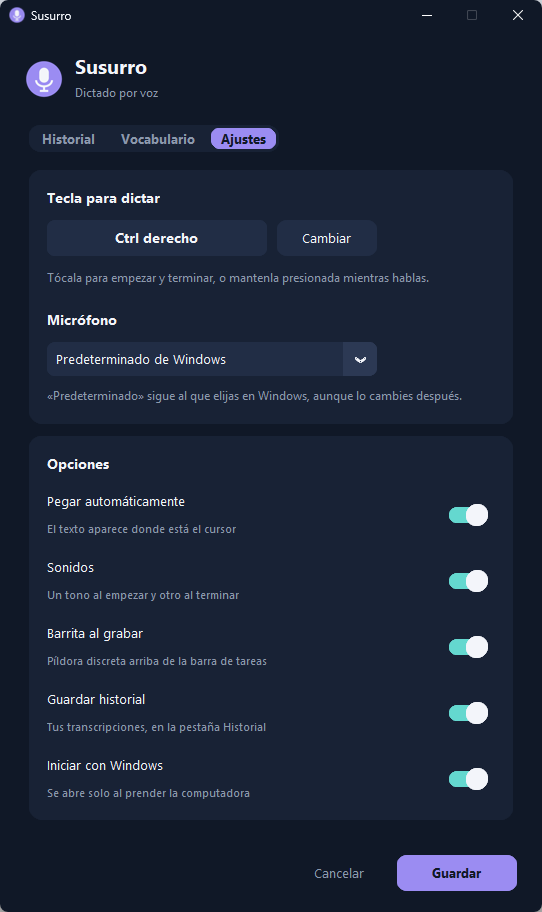
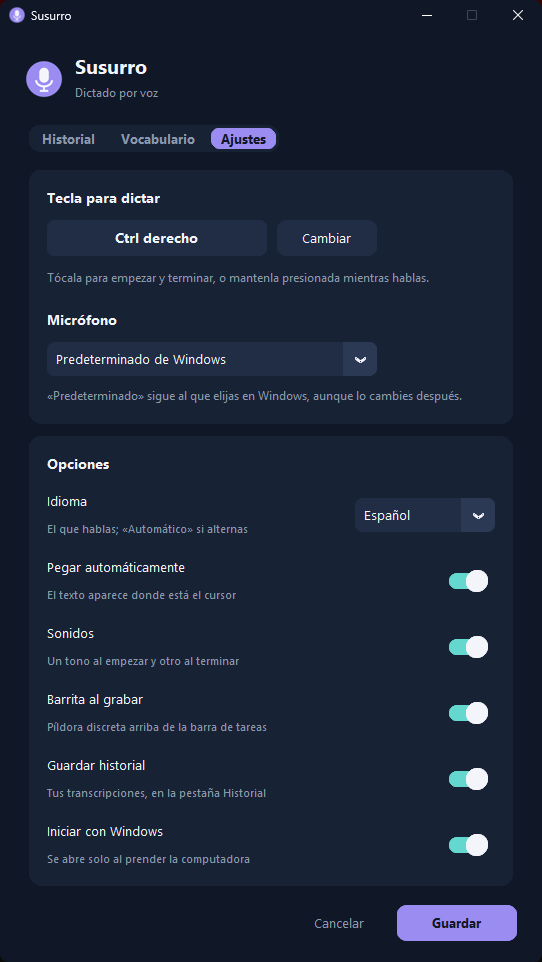
Selector de idioma en Ajustes y filtro de frases fantasma en ingles y portugues

diff --git a/susurro.py b/susurro.py
@@ -34,7 +34,16 @@ MODELS = {
     "large-v3-turbo": "Rápido (large-v3-turbo)",
     "large-v3": "Máxima precisión (large-v3)",
 }
-LANGUAGE = "es"                # None = detectar idioma automáticamente
+# Idiomas del dictado (código de Whisper -> nombre en Ajustes); "auto" = detectar
+LANGUAGES = {
+    "es": "Español",
+    "en": "Inglés",
+    "pt": "Portugués",
+    "fr": "Francés",
+    "it": "Italiano",
+    "de": "Alemán",
+    "auto": "Automático",
+}
 HOLD_SECONDS = 0.35            # cuánto sostener la tecla para que cuente como "mantener"
 SAMPLE_RATE = 16000
 MIN_SECONDS = 0.4              # grabaciones más cortas se ignoran
@@ -46,6 +55,7 @@ DEFAULTS = {
     "save_history": True,
     "mic": "",                 # "" = el micrófono predeterminado de Windows
     "model": "large-v3-turbo",
+    "language": "es",
     # Palabras que Whisper debe reconocer (nombres, marcas, términos técnicos)
     # (ejemplos de uso común; cada quien agrega los suyos en la pestaña Vocabulario)
     "vocab": ["WhatsApp", "Gmail", "YouTube", "ChatGPT", "IA", "Excel", "PowerPoint", "PDF"],
@@ -156,7 +166,9 @@ HALLUCINATION_STRICT = re.compile(
 # quitan cuando Whisper mismo indica que probablemente no había voz.
 HALLUCINATION_SOFT = re.compile(
     r"gracias\s+por\s+(?:ver|mirar)|suscr[ií]bete|no\s+olvides\s+suscribirte|"
-    r"dale\s+(?:a\s+)?like|^\W*(?:m[uú]sica|aplausos|risas)\W*$|♪", re.IGNORECASE)
+    r"dale\s+(?:a\s+)?like|^\W*(?:m[uú]sica|aplausos|risas)\W*$|♪|"
+    r"thanks?\s+(?:you\s+)?for\s+watching|(?:please\s+|like\s+and\s+)subscribe|"
+    r"obrigad[oa]\s+por\s+assistir|inscreva-se|^\W*(?:music|applause)\W*$", re.IGNORECASE)
 
 
 def clean_segment(text, no_speech_prob, avg_logprob):
@@ -381,6 +393,15 @@ def entry(master, **kw):
     return ctk.CTkEntry(master, fg_color=SURFACE_2, border_color=BORDER, border_width=1,
                         text_color=SMOKE, placeholder_text_color=GRAY, corner_radius=8,
                         height=34, font=font(13), **kw)
+
+
+def option_menu(master, variable, values, width=330):
+    return ctk.CTkOptionMenu(master, variable=variable, values=values,
+                             width=width, height=34, corner_radius=8, fg_color=SURFACE_2,
+                             button_color=BORDER, button_hover_color=GRAY, text_color=SMOKE,
+                             font=font(13), dropdown_font=font(13), dropdown_fg_color=SURFACE_2,
+                             dropdown_hover_color=BORDER, dropdown_text_color=SMOKE,
+                             dynamic_resizing=False)
 
 
 def card(master):
@@ -648,7 +669,7 @@ class MainWindow:
     def __init__(self, app, tab="Historial"):
         self.app = app
         self.hotkey = app.cfg["hotkey"]
-        w = self.win = new_window(app, "Susurro", 540, 880)
+        w = self.win = new_window(app, "Susurro", 540, 930)
         w.protocol("WM_DELETE_WINDOW", self.close)
 
         header(w, "Susurro", "Dictado por voz").pack(fill="x", padx=24, pady=(20, 8))
@@ -719,18 +740,16 @@ class MainWindow:
         if current and current not in mics:
             mics.append(current)         # el elegido, aunque ahora esté desconectado
         self.mic_var = tk.StringVar(value=current or DEFAULT_MIC_LABEL)
-        ctk.CTkOptionMenu(key_card, variable=self.mic_var, values=[DEFAULT_MIC_LABEL] + mics,
-                          width=330, height=34, corner_radius=8, fg_color=SURFACE_2,
-                          button_color=BORDER, button_hover_color=GRAY, text_color=SMOKE,
-                          font=font(13), dropdown_font=font(13), dropdown_fg_color=SURFACE_2,
-                          dropdown_hover_color=BORDER, dropdown_text_color=SMOKE,
-                          dynamic_resizing=False).pack(anchor="w", padx=18)
+        option_menu(key_card, self.mic_var, [DEFAULT_MIC_LABEL] + mics).pack(anchor="w", padx=18)
         label(key_card, "«Predeterminado» sigue al que elijas en Windows, aunque lo cambies después.",
               12, MUTED, wraplength=420).pack(anchor="w", padx=18, pady=(6, 14))
 
         opts = card(tab)
         opts.pack(fill="x")
         label(opts, "Opciones", 14, weight="bold").pack(anchor="w", padx=18, pady=(14, 4))
+        self.lang_var = tk.StringVar(value=LANGUAGES[self.app.cfg["language"]])
+        row = self.option_row(opts, "Idioma", "El que hablas; «Automático» si alternas")
+        option_menu(row, self.lang_var, list(LANGUAGES.values()), width=140).pack(side="right")
         self.vars = {}
         rows = [(k, t, d, self.app.cfg[k]) for k, t, d in self.OPTIONS]
         rows.append(("startup", "Iniciar con Windows", "Se abre solo al prender la computadora",
@@ -739,14 +758,19 @@ class MainWindow:
             self.vars[key] = self.switch_row(opts, title, desc, value)
         ctk.CTkFrame(opts, fg_color="transparent", height=8).pack()
 
-    def switch_row(self, master, title, desc, value):
-        var = tk.BooleanVar(value=value)
+    def option_row(self, master, title, desc):
+        """Fila con título y descripción a la izquierda; el control va a la derecha."""
         row = ctk.CTkFrame(master, fg_color="transparent")
         row.pack(fill="x", padx=18, pady=5)
         text = ctk.CTkFrame(row, fg_color="transparent")
         text.pack(side="left", fill="x", expand=True)
         label(text, title, 13).pack(anchor="w")
         label(text, desc, 11, MUTED).pack(anchor="w")
+        return row
+
+    def switch_row(self, master, title, desc, value):
+        var = tk.BooleanVar(value=value)
+        row = self.option_row(master, title, desc)
         ctk.CTkSwitch(row, text="", variable=var, width=46, switch_width=42, switch_height=22,
                       progress_color=TURQUOISE, fg_color=BORDER, button_color=SMOKE,
                       button_hover_color=SMOKE).pack(side="right")
@@ -869,6 +893,8 @@ class MainWindow:
         cfg = dict(self.app.cfg, hotkey=self.hotkey, **values)
         mic = self.mic_var.get()
         cfg["mic"] = "" if mic == DEFAULT_MIC_LABEL else mic
+        cfg["language"] = next(code for code, name in LANGUAGES.items()
+                               if name == self.lang_var.get())
         cfg["vocab"] = clean_words(self.words.get("1.0", "end").splitlines())
         cfg["replacements"] = [[str(v) for v in self.reps.item(i, "values")]
                                for i in self.reps.get_children()]
@@ -1036,6 +1062,8 @@ class Susurro:
         self.loading_model = None
         if self.cfg["model"] not in MODELS:
             self.cfg["model"] = DEFAULTS["model"]
+        if self.cfg["language"] not in LANGUAGES:
+            self.cfg["language"] = DEFAULTS["language"]
         self.state = "idle"        # idle | pending | hold | toggle
         self.frames = []
         self.stream = None
@@ -1088,6 +1116,11 @@ class Susurro:
             self.tray.notify(snippet(text, 120), "Copiado al portapapeles")
         except Exception:
             pass
+
+    def whisper_language(self):
+        """Código para Whisper; None le pide que detecte el idioma."""
+        lang = self.cfg["language"]
+        return None if lang == "auto" else lang
 
     @property
     def key_name(self):
@@ -1162,7 +1195,8 @@ class Susurro:
                 log(f"No se pudo usar la GPU ({e}); usando CPU")
                 model = WhisperModel(name, device="cpu", compute_type="int8")
             # Calentamiento para que la primera transcripción sea rápida
-            list(model.transcribe(np.zeros(SAMPLE_RATE, dtype=np.float32), language=LANGUAGE)[0])
+            list(model.transcribe(np.zeros(SAMPLE_RATE, dtype=np.float32),
+                                  language=self.whisper_language())[0])
         except Exception as e:
             log(f"No se pudo cargar {name}: {e}")
             if switching:
@@ -1305,7 +1339,7 @@ class Susurro:
             start = time.time()
             vocab = self.cfg["vocab"]
             segments, _ = self.model.transcribe(
-                audio, language=LANGUAGE, beam_size=5, vad_filter=True,
+                audio, language=self.whisper_language(), beam_size=5, vad_filter=True,
                 condition_on_previous_text=False,
                 # Pistas de vocabulario; se aplican a cada tramo de 30 s del audio
                 hotwords=", ".join(vocab) if vocab else None,

diff --git a/README.md b/README.md
@@ -49,7 +49,7 @@ Susurro usa **un solo modelo**, y el instalador lo descarga solo. **No necesitas
 | **Descarga** | Automática desde Hugging Face ([`mobiuslabsgmbh/faster-whisper-large-v3-turbo`](https://huggingface.co/mobiuslabsgmbh/faster-whisper-large-v3-turbo)), **~1.6 GB**, una sola vez |
 | **Dónde queda** | `%USERPROFILE%\.cache\huggingface\hub\` |
 | **Memoria de video** | ~2 GB en GPU |
-| **Idioma** | Español (configurable en `susurro.py` → `LANGUAGE`) |
+| **Idioma** | Español por defecto; inglés, portugués, francés, italiano, alemán o detección automática en **Ajustes** |
 
 **¿Por qué este modelo?** Se comparó contra `large-v3` (el "grande") dictando en español: turbo transcribió 38 s de audio en **3.2 s** contra **12.8 s** del grande, con la misma precisión. Los modelos chicos (`small`, `medium`) escriben notablemente peor y casi no son más rápidos en CPU.
 
@@ -141,7 +141,7 @@ Ninguno se sube a Git (están en `.gitignore`). **Para respaldar o pasar Susurro
 | Escribe mal un nombre | Agrégalo en **Vocabulario**, o usa **Corregir…** en el Historial. |
 | Tarda mucho | Sin GPU NVIDIA es normal (ver Requisitos). Con NVIDIA, revisa en `susurro.log` que diga *"cargado en GPU"*. |
 | El ícono del escritorio se ve viejo | Es caché de íconos de Windows: presiona `F5` en el escritorio o reinicia. |
-| Quiero dictar en otro idioma | Cambia `LANGUAGE = "es"` en `susurro.py` (o `None` para detectarlo solo). |
+| Quiero dictar en otro idioma | Abre Susurro → **Ajustes** → **Idioma** y elige el tuyo (o «Detectar automáticamente»). |
 
 ## 🗑 Desinstalar
 
